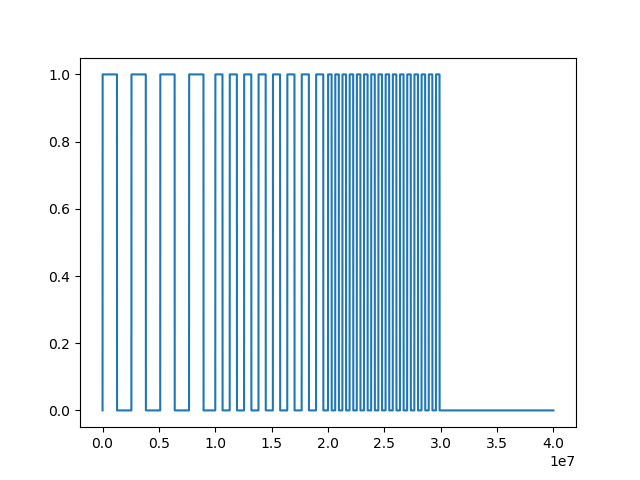
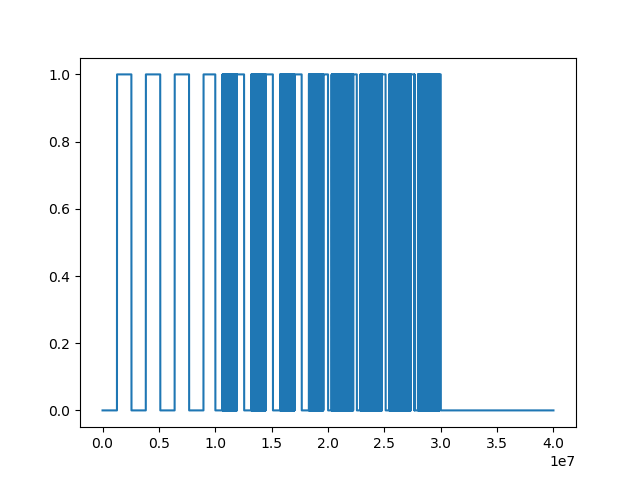
Implementing simultaneous playing of multiple notes.

Changed region(s): [[0.1562, 0.125, 0.6875, 0.875]]

diff --git a/Simulation/src/mymusic/defs.h b/Simulation/src/mymusic/defs.h
@@ -6,14 +6,14 @@
 #include <math.h>
 
 #ifndef STIMULUS_SEQUENCE
-#define STIMULUS_SEQUENCE "G4G5G6."
+#define STIMULUS_SEQUENCE "G4(G4G5)(G4G5G6)."
 #endif
 #ifndef AUDIO_FILE
 #define AUDIO_FILE "audio.out"
 #endif
 
 #define BPM (6000)
-#define MAX_CHORD_SIZE 1
+#define MAX_CHORD_SIZE 3
 
 typedef uint8_t note_t;
 typedef note_t chord_t[MAX_CHORD_SIZE];
@@ -35,8 +35,8 @@ typedef note_t chord_t[MAX_CHORD_SIZE];
 #define VOLUME_CODE(volume)  (0xA0 | (volume & 0xf))
 
 #define INVALID_NOTE -1
-#define INVALID_CHORD {INVALID_NOTE}
-#define REPEAT_CHORD {REPEAT_CHORD_CODE}
+#define INVALID_CHORD {INVALID_NOTE,INVALID_NOTE,INVALID_NOTE}
+#define REPEAT_CHORD {REPEAT_CHORD_CODE,REPEAT_CHORD_CODE,REPEAT_CHORD_CODE}
 
 #define FREQ(note)       (440 * pow(2, ((note - 69) / 12.0)))
 
